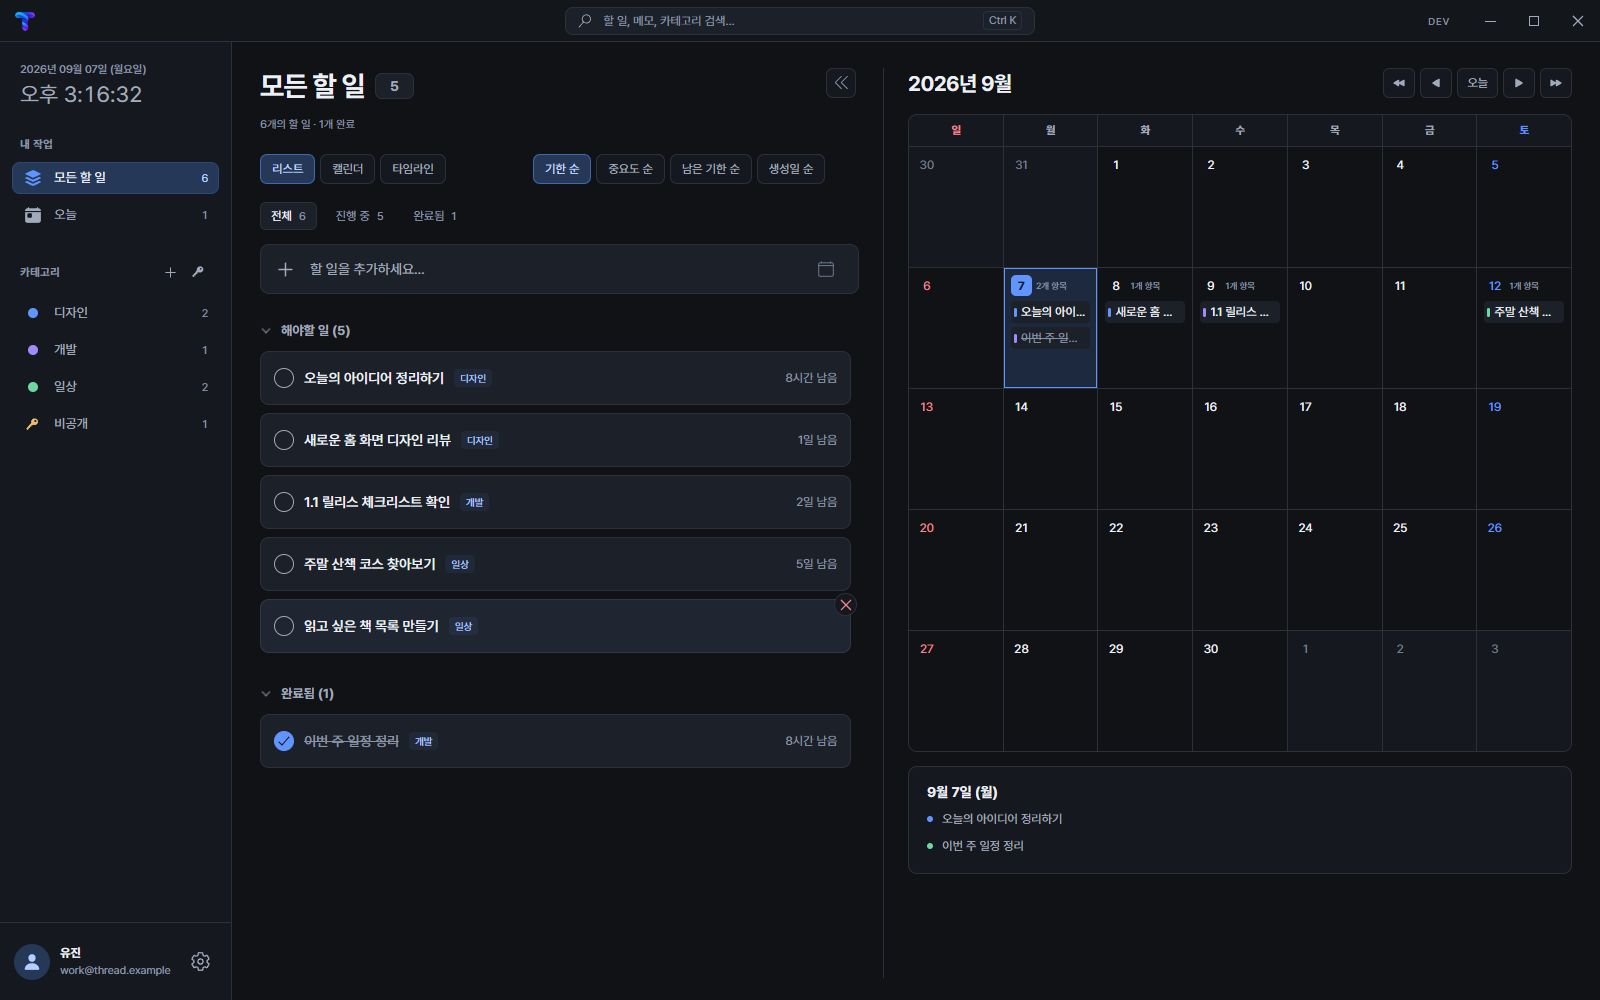
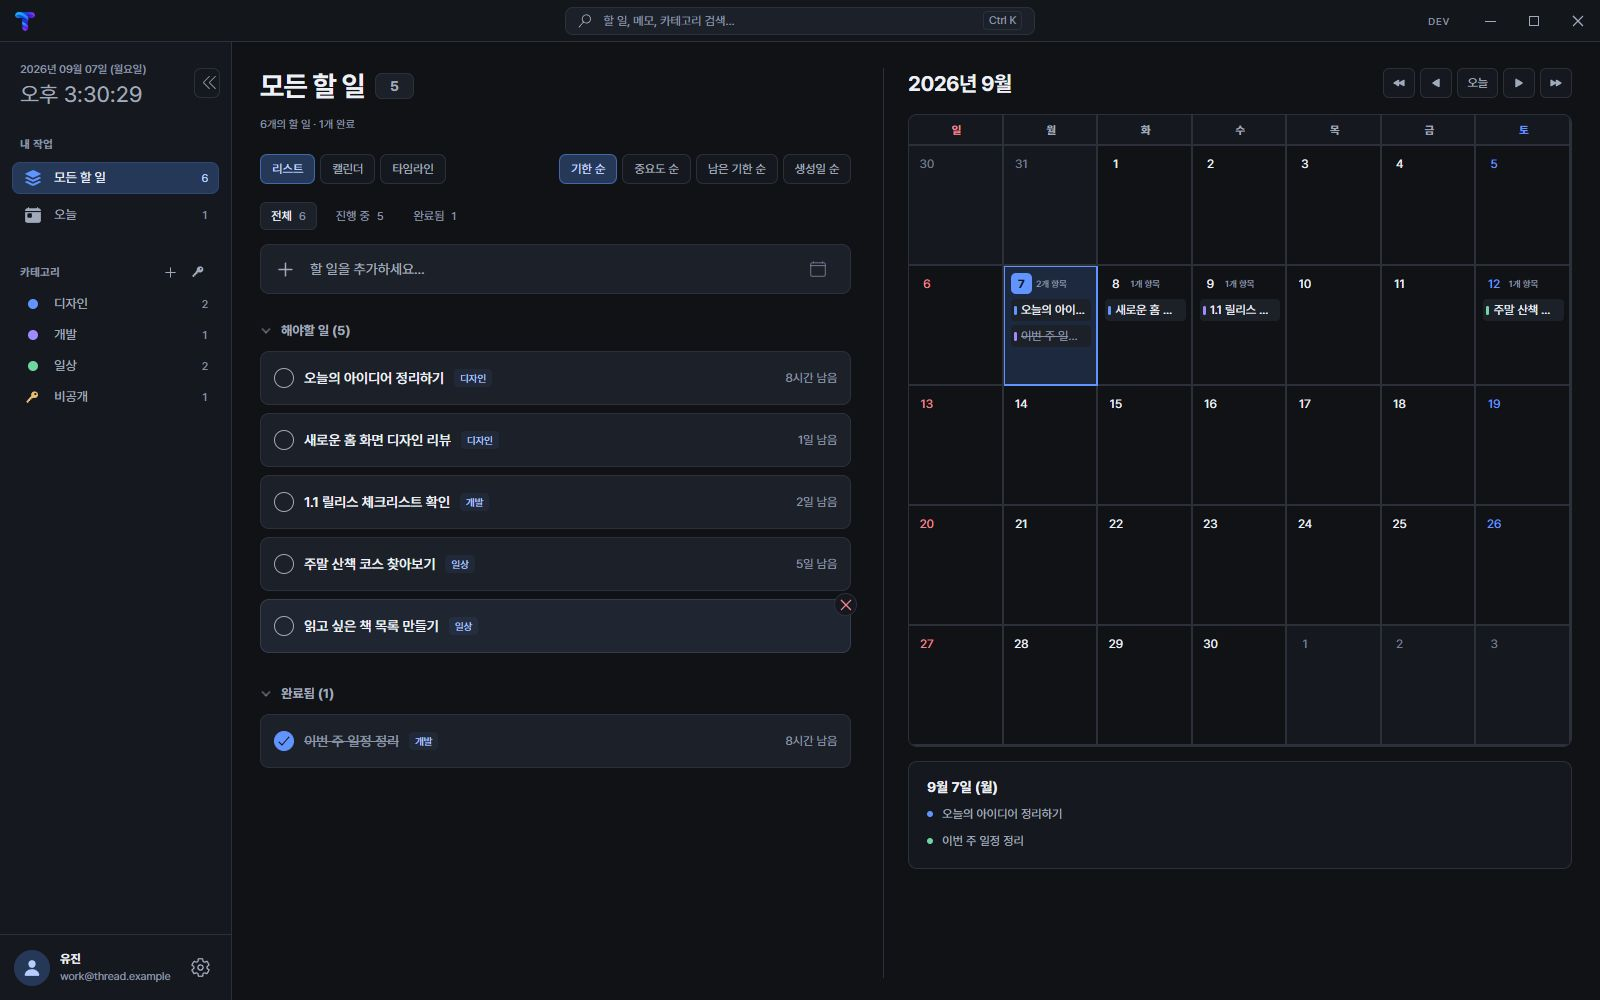
fix(desktop): stabilize calendar borders and refine sidebar layout

diff --git a/apps/desktop/src/components/TodoContent.scss b/apps/desktop/src/components/TodoContent.scss
@@ -11,28 +11,10 @@
   box-sizing: border-box;
   color: var(--text);
   padding: 26px 28px 22px;
-  > .sidebar-flipper {
-    position: absolute;
-    right: 28px;
-    top: 26px;
-    display: grid;
-    place-items: center;
-    width: 30px;
-    height: 30px;
-    border: 1px solid var(--border);
-    border-radius: 7px;
-    background: var(--panel);
-    color: var(--muted);
-    transform: rotate(90deg);
-    z-index: 3;
-  }
-  > .sidebar-flipper.flipped {
-    transform: rotate(-90deg);
-  }
   > .header {
     order: 0;
     flex-shrink: 0;
-    padding-right: 42px;
+    padding-right: 0;
   }
   > .header > .title {
     display: flex;
@@ -229,7 +211,7 @@
       > .header {
         grid-column: 1;
         grid-row: 1;
-        padding-right: 34px;
+        padding-right: 8px;
       }
       > .workspace-filters {
         grid-column: 1;
@@ -238,6 +220,7 @@
       > .todo-item-add-section {
         grid-column: 1;
         grid-row: 3;
+        margin-right: 8px;
       }
       > .body,
       .task-list-calendar-view {
@@ -255,9 +238,6 @@
       }
       .split-line {
         display: none;
-      }
-      > .sidebar-flipper {
-        right: calc(53.5% + 12px);
       }
       .calendar .day-cell {
         height: clamp(88px, 12vh, 142px);
@@ -302,10 +282,6 @@
   }
   @media (max-width: 1100px) {
     padding: 20px;
-    > .sidebar-flipper {
-      right: 20px;
-      top: 20px;
-    }
     > .body {
       min-height: auto;
     }

diff --git a/apps/desktop/src/components/TodoContent.js b/apps/desktop/src/components/TodoContent.js
@@ -47,7 +47,7 @@ import {
   applyUpdateTaskTitle,
 } from "../hooks/UseTransaction";
 import TaskListCalendarView from "../views/TaskListCalendarView";
-import { VscFoldDown, VscSymbolColor } from "react-icons/vsc";
+import { VscSymbolColor } from "react-icons/vsc";
 import ColorPicker from "../molecules/ColorPicker";
 import AutoBlurDiv from "../molecules/AutoBlurDiv";
 import TaskTimelineView from "../views/TaskTimelineView";
@@ -77,7 +77,6 @@ const TodoContent = (callback, deps) => {
     addPromise,
     states,
     hideLeftSidebar,
-    setHideLeftSidebar,
     searchQuery = "",
   } = props;
 
@@ -623,16 +622,6 @@ const TodoContent = (callback, deps) => {
 
   return (
     <div className={"todo-content" + (renderedViewMode === TASK_VIEW_MODE.LIST_CALENDAR ? " split-workspace" : "")} onScroll={onScroll}>
-      <button
-        aria-label={hideLeftSidebar ? "사이드바 펼치기" : "사이드바 접기"}
-        className={
-          "sidebar-flipper" +
-          JsxUtil.classByCondition(hideLeftSidebar, "flipped")
-        }
-        onClick={(e) => setHideLeftSidebar(!hideLeftSidebar)}
-      >
-        <VscFoldDown />
-      </button>
       <div className="header">
         <div className="title">
           {category?.title === TODO_MENU_TYPE.ALL ? "모든 할 일" : category?.title === TODO_MENU_TYPE.TODAY ? "오늘의 할 일" : category?.title ?? "내 작업"} <span className="heading-count">{filteredUndoneTaskCount}</span>

diff --git a/apps/desktop/src/layouts/Home.layout.scss b/apps/desktop/src/layouts/Home.layout.scss
@@ -1,3 +1,4 @@
+@import "styles/constants.scss";
 @keyframes home-layout-start-over {
   from {
     opacity: 0;
@@ -10,10 +11,57 @@
 }
 
 .home-layout {
+  position: relative;
   display: flex;
   flex: 1;
   width: 100%;
   height: 100%;
   overflow: hidden;
   min-height: 0;
+  > .sidebar-flipper {
+    position: absolute;
+    left: $left-sidebar-width - 38px;
+    top: 26px;
+    display: grid;
+    place-items: center;
+    width: 26px;
+    height: 30px;
+    border: 1px solid var(--border);
+    border-radius: 7px;
+    background: var(--panel);
+    color: var(--muted);
+    z-index: 3;
+    transition: left 0.2s ease;
+  }
+  > .sidebar-flipper svg {
+    transform: rotate(90deg);
+  }
+  > .sidebar-flipper.flipped {
+    left: 0;
+    top: 50%;
+    width: 12px;
+    height: 88px;
+    padding: 0;
+    border: 0;
+    border-radius: 0 6px 6px 0;
+    background: transparent;
+    transform: translateY(-50%);
+  }
+  > .sidebar-flipper.flipped svg {
+    display: none;
+  }
+  > .sidebar-flipper.flipped::after {
+    content: "";
+    position: absolute;
+    inset: 0 6px 0 0;
+    border-radius: 0 4px 4px 0;
+    background: var(--secondary);
+    opacity: 0.4;
+    pointer-events: none;
+  }
+  > .sidebar-flipper.flipped:hover::after,
+  > .sidebar-flipper.flipped:focus-visible::after {
+    background: var(--accent);
+    opacity: 1;
+  }
 }

diff --git a/apps/desktop/src/views/TaskCalendarView.scss b/apps/desktop/src/views/TaskCalendarView.scss
@@ -15,20 +15,20 @@
   .day-cells {
     display: grid;
     grid-template-columns: repeat(7, minmax(0, 1fr));
-    column-gap: 1px;
+    column-gap: 0;
     background: var(--border);
   }
   .day-cells {
-    row-gap: 1px;
+    row-gap: 0;
   }
   .week-cell {
+    position: relative;
     text-align: center;
     padding: 10px 0;
     font-size: 11px;
     font-weight: 600;
     color: var(--secondary);
     background: var(--panel);
-    border-bottom: 1px solid var(--border);
   }
   .week-cell.sunday {
     color: var(--danger);
@@ -46,6 +46,20 @@
     box-sizing: border-box;
     overflow: hidden;
     cursor: pointer;
+  }
+  // Two CSS pixels keep a solid device-pixel core at fractional display scales.
+  .day-cell::after,
+  .week-cell::after {
+    content: "";
+    position: absolute;
+    inset: 0;
+    pointer-events: none;
+    border-right: 2px solid var(--border);
+    border-bottom: 2px solid var(--border);
+    z-index: 1;
+  }
+  .day-cell.selected::after {
+    border-color: var(--accent);
   }
   .day-cell:hover {
     background: #1a202b;

diff --git a/apps/desktop/src/layouts/Home.layout.js b/apps/desktop/src/layouts/Home.layout.js
@@ -4,6 +4,7 @@ import { Outlet, useOutletContext } from "react-router-dom";
 
 import "./Home.layout.scss";
 import Category from "../objects/Category";
+import { VscFoldDown } from "react-icons/vsc";
 
 const HomeLayout = () => {
   const props = useOutletContext();
@@ -54,6 +55,13 @@ const HomeLayout = () => {
           ...props,
         }}
       />
+      <button
+        aria-label={hideLeftSidebar ? "사이드바 펼치기" : "사이드바 접기"}
+        className={"sidebar-flipper" + (hideLeftSidebar ? " flipped" : "")}
+        onClick={() => setHideLeftSidebar((hidden) => !hidden)}
+      >
+        <VscFoldDown />
+      </button>
     </div>
   );
 };

diff --git a/apps/desktop/src/components/LeftSidebar.scss b/apps/desktop/src/components/LeftSidebar.scss
@@ -45,6 +45,15 @@
   .todo-menu-group {
     margin-bottom: 28px;
   }
+  .todo-menu-group.custom > .header {
+    margin-bottom: 6px;
+  }
+  .todo-menu-group.custom .todo-menu {
+    height: 26px;
+    min-height: 26px;
+    padding-top: 2px;
+    padding-bottom: 2px;
+  }
   .header {
     display: flex;
     align-items: center;
@@ -179,8 +188,8 @@
     display: flex;
     align-items: center;
     gap: 10px;
-    padding: 18px 14px;
-    min-height: 78px;
+    padding: 12px 14px;
+    min-height: 66px;
     border-top: 1px solid var(--border);
     box-sizing: border-box;
   }

diff --git a/docs/tasks.md b/docs/tasks.md
@@ -2,7 +2,7 @@
 
 | Index | Tag | Updated | Status | Completed | Deps | 항목 | 완료 조건 |
 | --- | --- | --- | --- | --- | --- | --- | --- |
-| 37 | desktop/design | 2026-09-07 15:17 | 🟡 WIP |  |  | Desktop UI/UX 전면 개선 | 참고 이미지 기반 charcoal/blue 토큰·상단 검색·사이드바·목록/캘린더 분할·빠른 추가·완료 필터·날짜 상세·설정/팝업을 구현했다. 기존 IPC mutation 계약과 보안 카테고리 필터를 유지했다. 추가 피드백: 상단 42px·시계 22px·메뉴 36px·시계 아래 여백 +10px, 목록/캘린더 12px 단일 단위 남은 시간(상세 유지), 좁은 캘린더 시간 숨김, 삭제 버튼 돌출에 의한 목록 가로 넘침을 수정했다. renderer 41개 테스트·production build(기존 lint 경고) 및 synthetic 실제 브라우저의 기능/치수/900·1280·1600px 내부 넘침 검증 통과. 스크린샷을 디자인 명세에 보존했다. 상단 글자 제거·로고 좌측 12px·검색창 창 중앙 정렬·키 아이콘 80%·설정 글자/아이콘 +2px 추가 반영 및 브라우저/production build 검증 완료. 리스트 기본 및 1100px 기준 자동 분할/단일 뷰 전환, 안내 문구 제거, 메뉴 32px·검색 폭 +30px, 캘린더 시간 남음 제거/opacity 0.4/100px 표시 기준·1px 격자 경계 보강 완료. 사용자 시각 검수 대기. |
+| 37 | desktop/design | 2026-09-07 15:30 | 🟡 WIP |  |  | Desktop UI/UX 전면 개선 | 참고 이미지 기반 charcoal/blue 토큰·상단 검색·사이드바·목록/캘린더 분할·빠른 추가·완료 필터·날짜 상세·설정/팝업을 구현했다. 기존 IPC mutation 계약과 보안 카테고리 필터를 유지했다. 추가 피드백: 상단 42px·시계 22px·메뉴 36px·시계 아래 여백 +10px, 목록/캘린더 12px 단일 단위 남은 시간(상세 유지), 좁은 캘린더 시간 숨김, 삭제 버튼 돌출에 의한 목록 가로 넘침을 수정했다. renderer 41개 테스트·production build(기존 lint 경고) 및 synthetic 실제 브라우저의 기능/치수/900·1280·1600px 내부 넘침 검증 통과. 스크린샷을 디자인 명세에 보존했다. 상단 글자 제거·로고 좌측 12px·검색창 창 중앙 정렬·키 아이콘 80%·설정 글자/아이콘 +2px 추가 반영 및 브라우저/production build 검증 완료. 리스트 기본 및 1100px 기준 자동 분할/단일 뷰 전환, 안내 문구 제거, 메뉴 32px·검색 폭 +30px, 캘린더 시간 남음 제거/opacity 0.4/100px 표시 기준·1px 격자 경계 보강 완료. 추가 검수 반영: 접기 버튼 사이드바 경계로 이동, 우측 정렬 통일, 카테고리 행 26px/제목 여백 6px, 경계 2px 내부 페인팅으로 변경. DPR 1/1.25/1.5 및 1031~1033px 높이에서 경계 픽셀 검사 통과. 최종 후속: 접기 버튼 안쪽 12px·접힌 상태 무아이콘 엣지 핸들(12×88px 클릭 영역), 프로필 66px, 요일/날짜 동일 경계 및 배율별 픽셀 검사 완료. 사용자 시각 검수 대기. |
 | 36 | security | 2026-09-07 13:05 | 🟢 DONE | 2026-09-07 13:05 |  | Desktop production env 이력 제거 | ignore 예외를 제거하고 별도 복제본 전체 이력에서 해당 경로를 제거했다. master/refactor 양 원격 브랜치를 explicit lease·atomic 강제 푸시하고 로컬 브랜치를 정렬했다. 파일 존재·ignore 적용·추적 해제를 확인했다. 로컬 실제 env·기존 stash/다른 브랜치는 보존했으며 GitHub 캐시/타인의 clone까지 삭제한 것은 아니다. |
 | 35 | desktop | 2026-09-07 02:21 | 🟢 DONE | 2026-09-07 02:21 | #34 | v2 설정 동기화 상태 및 1.1.0 빌드 | 설정을 연결 상태·미전송 변경·마지막 반영 번호로 교체하고 현재 상태 조회/실시간 갱신/데이터 보존 재시도 IPC를 연결했다. 계정 필터·초기 응답 경쟁·개별 구독 해제를 검증했다. renderer 29개 및 SQLite/mock service 테스트 1개 통과, production build와 Windows ia32 NSIS 1.1.0 패키징 완료. asar 버전·진입점·최종 renderer·sync/IPC 코드 일치를 확인했다. 기존 lint 경고는 남아 있으며 실제 설치·운영 서버 호출·업로드는 하지 않았다. |
 | 34 | desktop | 2026-09-07 02:10 | 🟢 DONE | 2026-09-07 02:10 |  | 상단 평상시 sync 상태 제거 및 설정 0/0 진단 | 평상시 debug 상태 줄을 제거하고 복구/오류 경고를 보존했다. UI 테스트 6개와 Root/경고 컴포넌트 transpilation, diff 검사를 통과했다. 설정 0/0은 legacy block IPC만 구독하고 v2 status를 구독하지 않는 표시 문제로 확인했다. 설정 변경은 이번 진단 범위에 포함하지 않았다. 실제 Electron 실행/패키징은 수행하지 않았다. |

diff --git a/docs/designs/desktop-visual-refresh.md b/docs/designs/desktop-visual-refresh.md
@@ -25,13 +25,14 @@
 
 - 42px 상단: 좌측 12px 여백의 26px Thread 로고(글자 없음), 창 전체 중앙의 28px 검색창(Ctrl/Cmd+K), 기존 창 제어.
 - 232px 사이드바: 오늘/전체, 기존 카테고리 및 보안 카테고리 관리, 계정과 설정.
-- 현재 시간은 22px, 시계 아래 여백은 기존보다 10px 추가한다. 오늘/전체 및 카테고리 메뉴 버튼은 32px 높이다.
+- 현재 시간은 22px, 시계 아래 여백은 기존보다 10px 추가한다. 오늘/전체 메뉴는 32px, 카테고리 행은 26px 높이다. 카테고리 제목 아래 여백은 6px이다.
 - 목록 요약과 캘린더 항목은 12px 남은 시간을 가장 큰 단위 하나로 내림 표시한다(1시간 35분 → 1시간 남음). 지난 기한은 같은 규칙으로 지남을 표시하고 펼친 상세 타이머는 기존 다중 단위를 유지한다.
 - 캘린더 항목 제목은 12px이며 날짜 셀의 콘텐츠 폭이 100px 이상일 때 남은 시간을 표시한다. 시간은 '남음' 없이 opacity 0.4로 표시하고 만료된 경우에는 '지남'을 유지한다. 월/년의 시간 환산은 기존 포맷터를 유지한다.
 - 분할 목록은 카드 바깥 삭제 버튼의 7px 돌출 폭을 수용하는 우측 8px 여백으로 가로 스크롤을 방지한다.
 - 작업 영역: 제목, 보기 및 정렬 선택, 전체/진행 중/완료 필터, 상단 추가 입력. 고정 안내 문구는 제거하고 검색 중에만 검색 결과 설명을 표시한다.
 - 선택 가능한 보기는 리스트(기본), 캘린더, 타임라인. 창 너비 1100px 초과 시 리스트/캘린더는 모두 두 열로 표시하고, 이하에서는 선택한 뷰만 표시한다. 창 크기를 바꿔도 선택은 유지하며 타임라인은 기존 단독 보기를 유지한다.
-- 검색창 폭은 이전보다 30px 넓은 min(470px, 40vw + 30px)이다. 날짜 셀 경계는 개별 border 대신 격자 배경과 1px gap으로 그린다.
+- 검색창 폭은 이전보다 30px 넓은 min(470px, 40vw + 30px)이다. 요일과 날짜 셀 모두 gap 없이 배치하고 pointer-events 없는 pseudo-element의 내부 2px 경계로 그린다. 분수 배율에서도 선이 남도록 보강하며 선택 날짜는 파란 경계를 유지한다.
+- 사이드바 접기 버튼은 Home 레이아웃에서 사이드바 오른쪽 안쪽 12px에 배치한다. 접으면 좌측 가장자리 중앙에 아이콘 없는 6×88px 핸들(클릭 영역 12×88px)을 남기고, hover/focus 시 강조한다. 키보드로도 다시 펼칠 수 있다. 프로필 영역은 78px에서 66px로 줄인다. 분할 보기의 정렬 옵션·추가 입력·목록은 우측 8px 여백을 공유한다.
 - 검색은 이미 접근 가능한 작업의 제목·메모·카테고리명에 적용하는 renderer 필터다. 보안 카테고리 필터를 우회하지 않는다.
 - 중요/즐겨찾기/휴지통처럼 현재 저장 모델에 없는 기능은 시각적 버튼만 만들지 않는다.
 - 날짜 선택 상세는 현재 필터의 작업만 보여준다. 완료/수정/삭제/정렬/반복/하위 작업은 기존 콜백을 사용한다.
@@ -52,6 +53,18 @@
 - 설치 파일 패키징과 사용자 시각 검수는 이번 검증에 포함하지 않는다. 현재 dev 실행에서 화면을 확인할 수 있다.
 
 ## Preview
+
+후속 보완 검증: 2026-09-07 15:30 (KST)
+
+- 접기 버튼이 사이드바 안쪽 12px인지, 접힌 핸들의 좌측 위치·12×88px 영역·아이콘 미표시·펼치기 동작, 프로필 높이 66px을 실제 브라우저에서 확인했다.
+- 요일 헤더까지 픽셀 검사 범위를 확장해 날짜 셀과 같은 배율/높이 9가지 조합에서 모든 내부 가로·세로 경계 색을 확인했다.
+
+스크린샷 후속 검수: 2026-09-07 15:27 (KST)
+
+- 사용자 환경에서 경계 누락이 지속되어 기존 1px gap 좌표 검증만으로는 충분하지 않음을 확인했다. 내부 1px 선 보강도 DPR 1.25에서 실제 픽셀 검사에 실패했다.
+- 내부 2px 선으로 수정한 후 DPR 1/1.25/1.5, viewport 1919px 및 높이 1031/1032/1033px 조합에서 모든 날짜 행/열의 경계 색(일반/선택)을 스크린샷 픽셀로 확인했다.
+- 정렬 옵션·추가 입력·목록의 우측 끝 차이 1px 미만, 카테고리 행 26px, 사이드바 경계 버튼 및 접기/펼치기, 기존 UI 동작 검증 통과. Renderer 41개 테스트와 production build 통과(기존 lint 경고).
+- 실제 Electron 사용자 화면의 최종 시각 검수는 여전히 별도다.
 
 반응형 보기 조정 검증: 2026-09-07 15:17 (KST)
 
